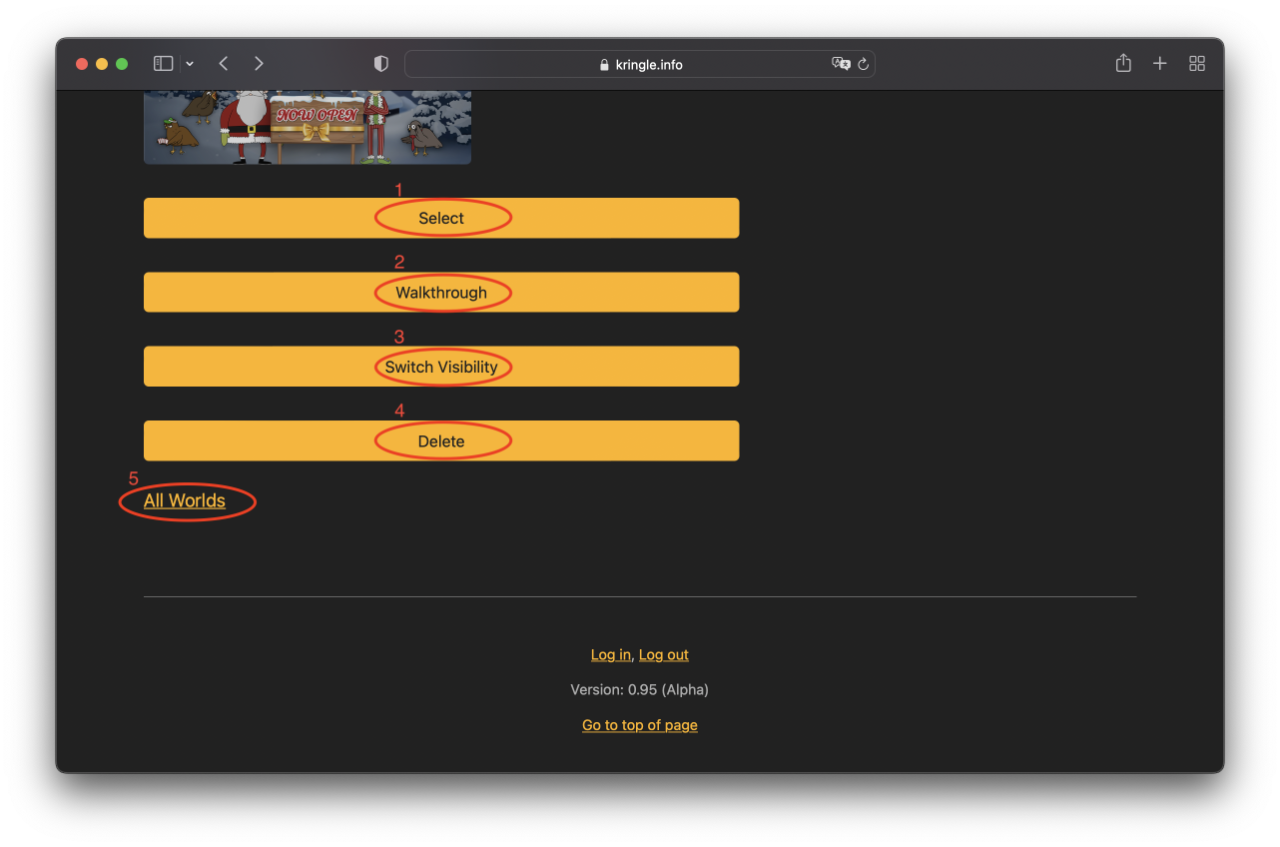
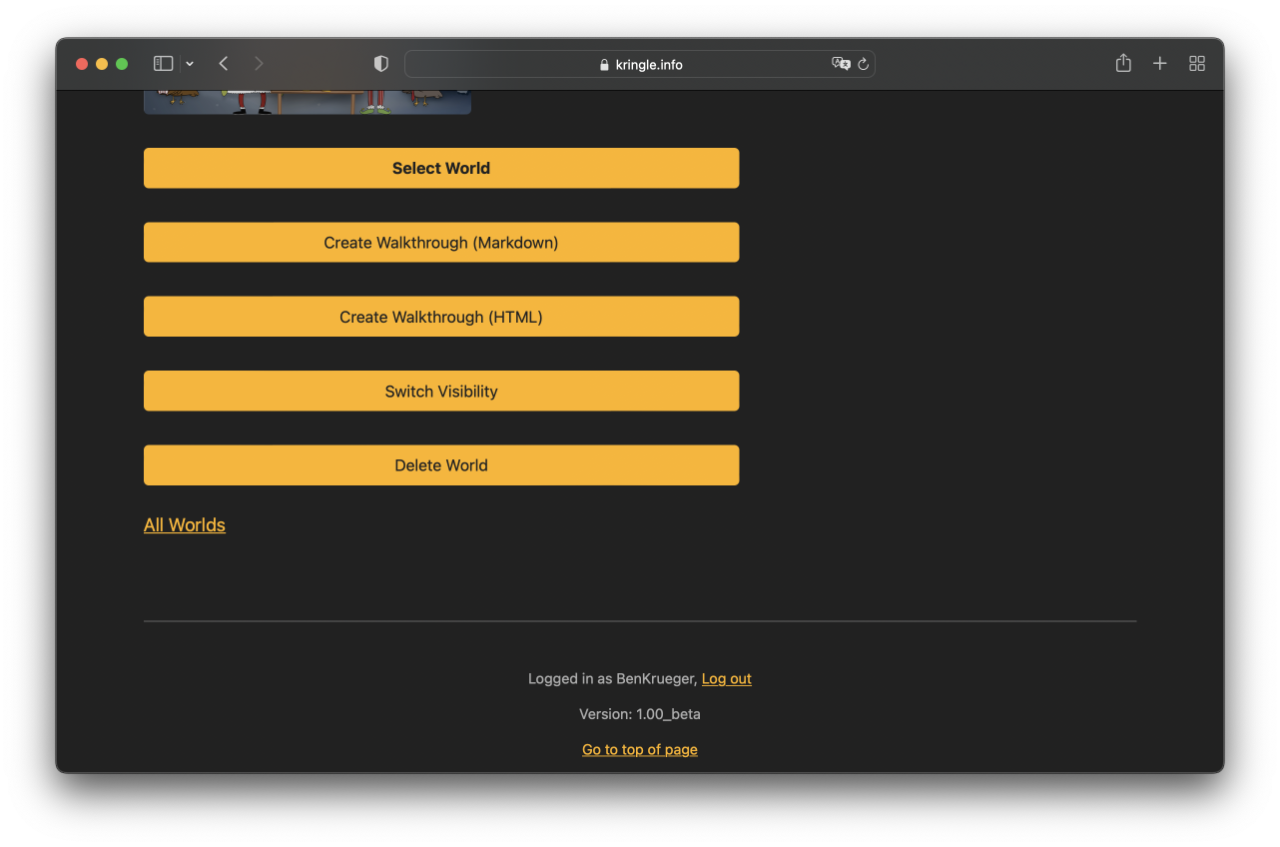
Update world help

Changed region(s): [[0.0938, 0.0921, 0.5938, 0.6446], [0.4062, 0.7674, 0.5938, 0.8902]]

diff --git a/docs/worlds.md b/docs/worlds.md
@@ -2,26 +2,26 @@
 
 ## All Worlds
 
-You can see which worlds are available by clicking on the (1) *worlds* button.  
-If you click on an (2) entry, you will be taken to the detailed view.  
+You can see which worlds are available by clicking on (1) *Worlds*.  
+If you click on an entry, you will be taken to the detailed view.  
 
 ![All Worlds](./img/worlds_all.png)
 
 ## Detailed View
 
-In the detailed view you can inform yourself about the world.  
-When you click on the (1) creator, you can jump directly to the detailed view of the respective creator.  
-The (2) *Description* provides a brief information about this world.  
-The (3) *URL* shows the address under which the world can be accessed.  
-The field (4) *Public* indicates whether the world is released and the solutions submitted for it are publicly visible.  
+In the detailed view you can inform yourself about the respective world.  
+When you click on the *creator*, you can jump directly to the detailed view of the respective creator.  
+The *URL* shows the address under which the world can be accessed.  
+The field *Public* indicates whether the world has been released and the solutions submitted for it are publicly visible.  
+The *Description* below provides a brief information about this world.  
 
 ![World Detail 1](./img/worlds_detail.png)
 
 Below are some actions you can perform for this world.  
-By clicking on (1) *Select* you will be taken to the *Rooms and Objectives* section specifically for this world. Here are the individual elements that make up this world.  
-By clicking on (2) *Walkthrough* you can create a walkthrough document. On the one hand, this contains the general information about the world, on the other hand, the solutions you have submitted. To do this, you must be logged in.  
-By clicking on (3) *Switch Visibility* you can set the status to *public*. Only if the status is public, other people can view submitted solutions. If the world is not public, you only see your own solutions. To do this, you must be logged in and be the creator of this world.  
-By clicking on (4) *Delete* this world as well as all elements will be irrevocably deleted. This is only possible as long as no solutions have been submitted. To do this, you must be logged in and be the creator of this world.  
-When you click on (5) *All worlds* you will get back to the worlds overview.  
+By clicking on *Select World* you will be taken to the *Rooms and Objectives* section specifically for this world. Here are the individual elements that make up this world.  
+By clicking on *Create Walkthrough* you can create a walkthrough document. On the one hand, this contains the general information about the world, on the other hand, the solutions you have submitted. To do this, you must be logged in.  
+By clicking on *Switch Visibility* you can set the status to *public*. Only if the status is public, other people can view submitted solutions. If the world is not public, you only see your own solutions. To do this, you must be logged in and be the creator of this world.  
+By clicking on *Delete World* this world as well as all elements will be irrevocably deleted. This is only possible as long as no solutions have been submitted. To do this, you must be logged in and be the creator of this world.  
+When you click on *All worlds* you will get back to the worlds overview.  
 
 ![World Detail 2](./img/worlds_detail2.png)

diff --git a/docs/creators.md b/docs/creators.md
@@ -10,6 +10,8 @@ If you click on an entry, you will be taken to the detailed view.
 ## Detailed View
 
 In the detailed view you can inform yourself about the respective creator.  
+The field *Role* shows which role the creator has (anonymous user, registered user, creator).  
+The *Description* below provides a brief information about this creator.  
 If the creator has linked an image, it will be displayed here as well.  
 When you click on *All creators* you will get back to the creators overview.  
 
